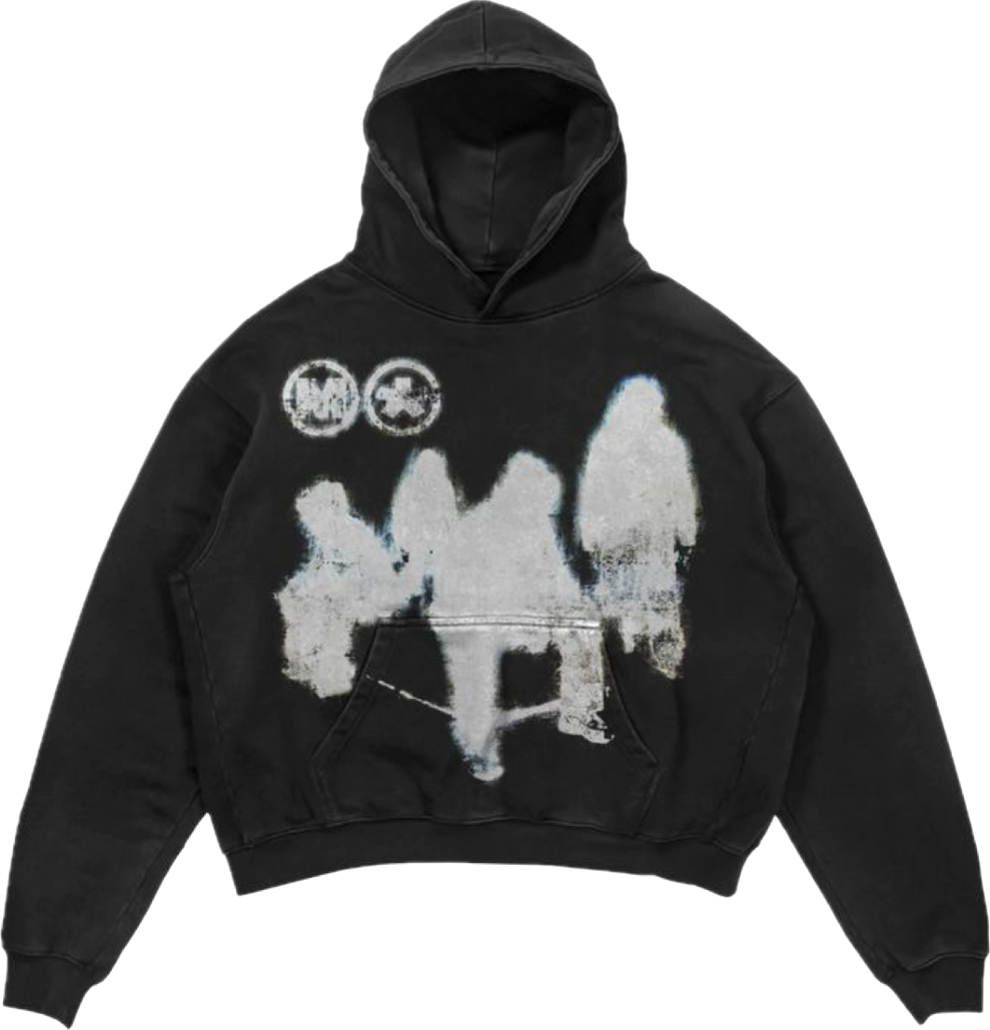
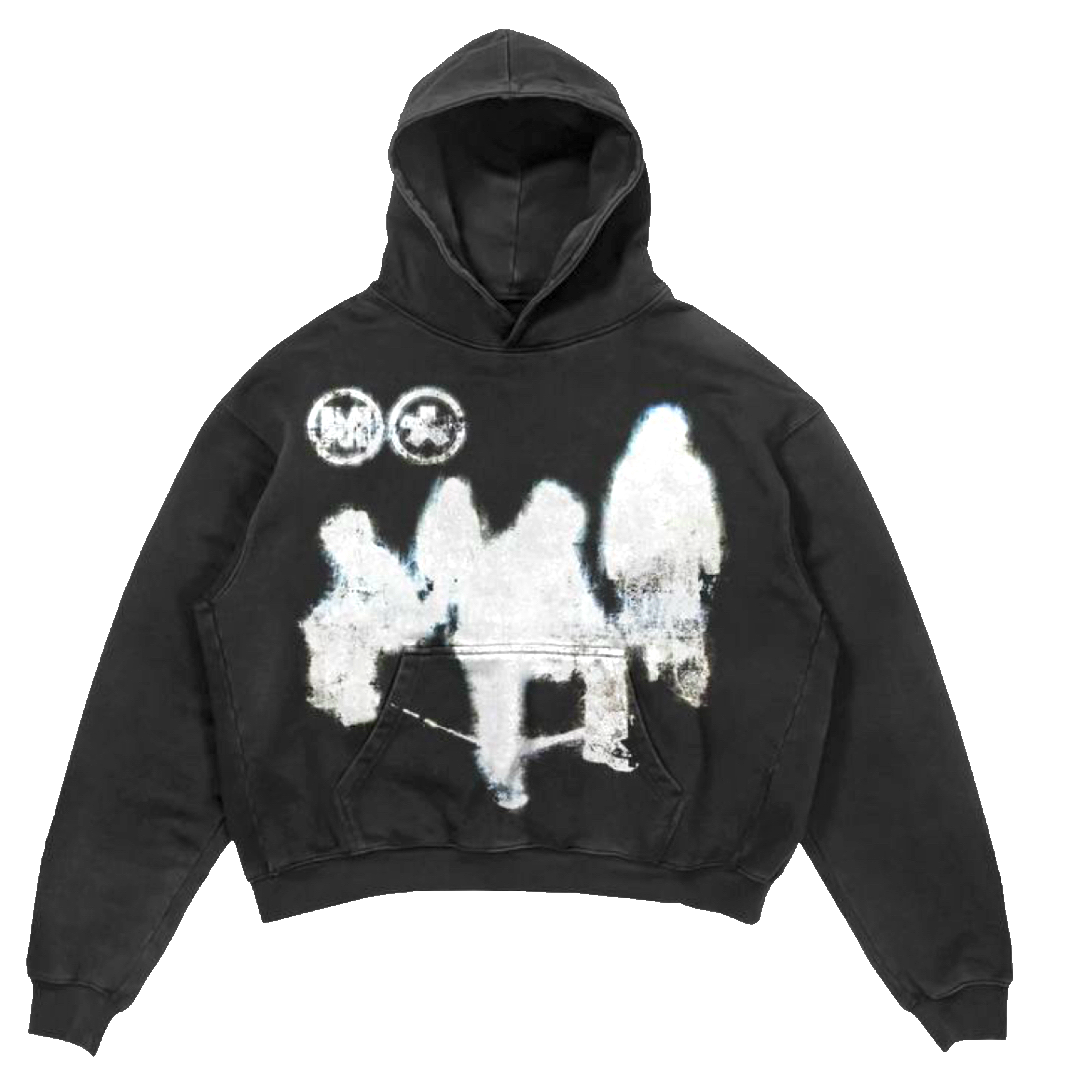
#46 Import and add hoodie image, stack images

diff --git a/client/src/styles/homePage.css b/client/src/styles/homePage.css
@@ -51,25 +51,35 @@
 .home-page .a .image {
     width: 40%;
     padding-top: 120px;
+    position: relative;
 }
 
 .home-page .a .image img {
-    max-width: 250px;
+    display: block;
+    max-width: 300px;
+    position: relative;
 }
 
-@media screen and (max-width: 580px) {
+.home-page .a .image img:nth-of-type(2) {
+    position: absolute;
+} 
+
+@media screen and (max-width: 700px) {
     .home-page {
         text-align: center;
     }
+
+    /* Text container  */
     .home-page .a .text {
         width: 100%;
         padding: 40px 0 0 0;
         height: 200px;
     }
 
+    /* Image container  */
     .home-page .a .image {
         width: 100%;
-        padding-top: 20px;
+        padding: 20px 0 0 0;
     }
 
     .home-page .a .image img {

diff --git a/client/src/pages/Home.js b/client/src/pages/Home.js
@@ -1,11 +1,13 @@
 import React from 'react'
 import '../styles/homePage.css'
 import '../assets/images/hoodie2.png'
+import '../assets/images/hoodie.png'
 import { NavLink } from 'react-router-dom'
 
 
 function Home() {
-  const hoodieImg = require('../assets/images/hoodie2.png')
+  const hoodieImg = require('../assets/images/hoodie.png')
+  const hoodieImg2 = require('../assets/images/hoodie2.png')
 
   return (
     <div className="home-page">
@@ -16,6 +18,7 @@ function Home() {
             <NavLink to='/products' className="shop-now">SHOP NOW</NavLink>
           </div>
           <div className="image">
+            <img src={hoodieImg2} alt=""/>
             <img src={hoodieImg} alt=""/>
           </div>
         </div>
